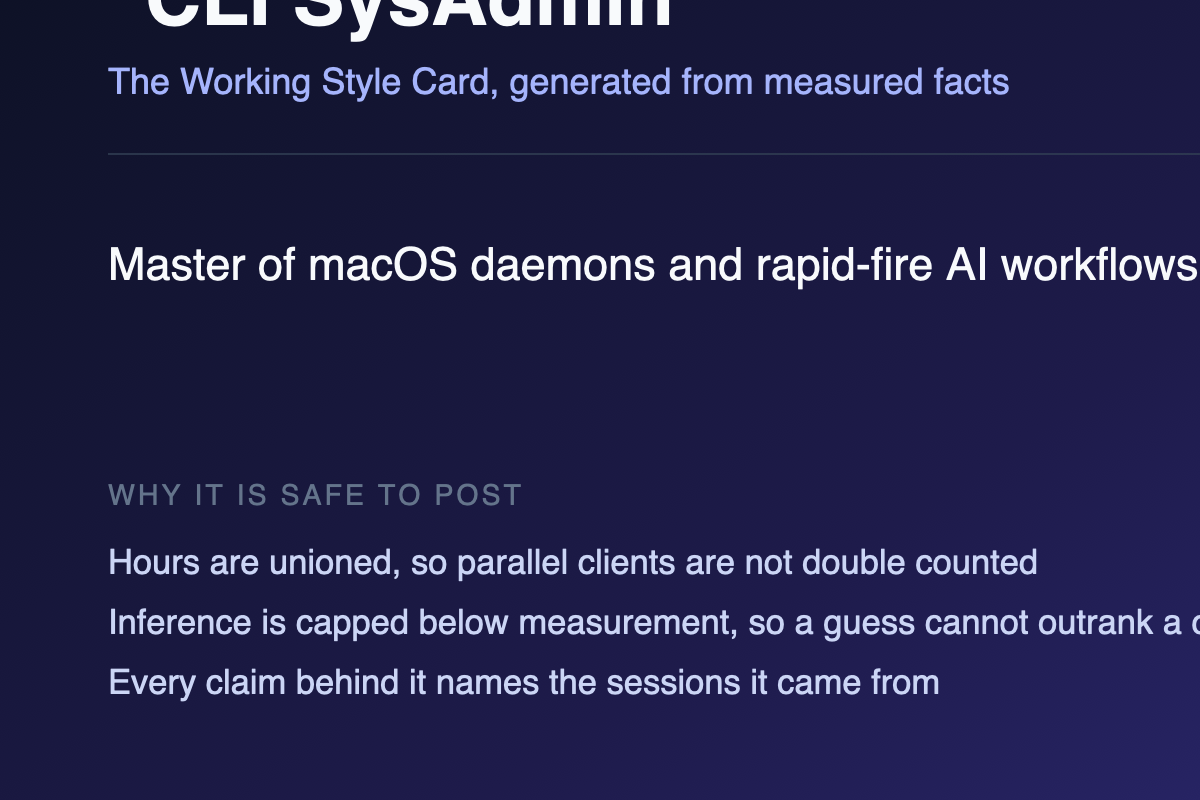
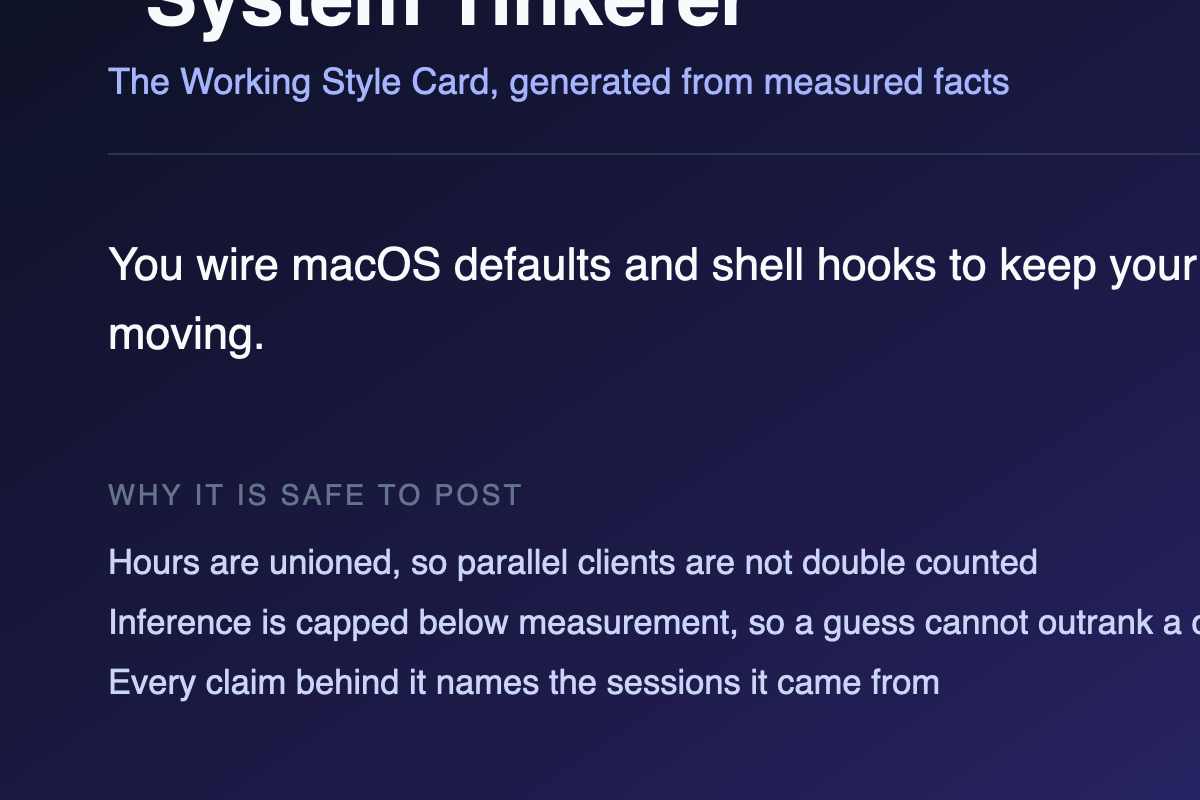
docs: shot-by-shot video script, timed against the live numbers

Changed region(s): [[0.0925, 0.2812, 1.0, 0.375], [0.1233, 0.0, 0.6167, 0.0625], [0.0925, 0.4062, 0.2158, 0.4688]]

diff --git a/docs/VIDEO-SCRIPT.md b/docs/VIDEO-SCRIPT.md
@@ -1,0 +1,270 @@
+# Demo video script
+
+**Target: 3:40. Hard limit 4:00.** Record in one take, screen plus voice, no
+edits. Judges reward a live demo over a polished one, and an unedited take is
+itself evidence that the thing works.
+
+Every number below was read from the live service. Re-run
+`scripts/demo_check.py` immediately before recording and update anything that
+moved.
+
+---
+
+## Before you press record
+
+**Windows, arranged in advance.** Nothing kills a demo like hunting for a tab.
+
+1. Terminal, large font, `cd ~/src/amnesia`, cleared
+2. Browser tab A: <https://amnesia-orkuraibfa-uc.a.run.app>
+3. Browser tab B: Cloud Run console, service `amnesia`
+4. Browser tab C: Firestore console, collection `amnesia_memory`
+5. Claude Code, open, ready to type
+6. Cursor, open, ready to type
+
+**Start the slow thing first.** Distillation takes about 90 seconds. Run it in
+the terminal at 2:00 and talk over it while it works, so nobody watches a
+spinner.
+
+**Kill the noise.** Notifications off, no personal repos with client names on
+screen, browser bookmarks bar hidden.
+
+**Say numbers out loud.** They are the strongest thing you have, and a judge
+skimming at 1.5x speed hears more than they read.
+
+---
+
+## 0:00 – 0:25 · The hook
+
+> "I have four AI coding agents. Every single morning, all four of them meet me
+> for the first time."
+
+**On screen:** Claude Code. Type:
+
+```
+what do you know about how I work?
+```
+
+Let the empty answer land. Do not talk over it.
+
+> "Claude Code knows nothing about what I did in Cursor yesterday. Codex has
+> never heard of the decision I spent two hours making last week. Every session,
+> I start over."
+
+**Why this opening:** it is not a description of a product, it is a description
+of the judge's own morning.
+
+---
+
+## 0:25 – 0:50 · The insight
+
+> "But the context isn't missing. Every one of these tools writes a full
+> transcript to my disk. Months of evidence about how I actually work, and
+> nobody reads it."
+
+**On screen:** terminal, one command:
+
+```bash
+ls ~/.claude/projects ~/.jcode/sessions | head
+```
+
+> "So I built Amnesia. It reads them."
+
+---
+
+## 0:50 – 1:30 · What it already knows
+
+**On screen:** switch to the Amnesia UI, tab A. Do not explain the
+architecture. Show the memory.
+
+> "This is running on Cloud Run. It has read 19 of my real sessions across 30
+> days, and measured 14.8 active hours of actual work."
+
+Scroll to the beliefs panel.
+
+> "These aren't things I told it. It worked them out. It knows I keep getting
+> blocked by expired auth sessions in CLI tools, and it's seen that in eight
+> separate sessions."
+
+Point at the evidence count.
+
+> "Every belief carries the sessions it came from. Which means I can argue with
+> it."
+
+Click **that's wrong** on any belief, type a correction, submit.
+
+> "And that correction outranks anything the model inferred. Permanently. The
+> next background pass can't quietly re-derive it."
+
+**Why this section matters:** provenance and correction are the two things most
+memory demos skip, and they are exactly what the Collaborative Partner track
+asks for.
+
+---
+
+## 1:30 – 2:10 · The partner, not the chatbot
+
+**On screen:** the chat box. Type slowly enough to read:
+
+```
+I need to add rate limiting to my API
+```
+
+While it thinks:
+
+> "A generic assistant asks you five questions here, because it's starting from
+> nothing."
+
+When the reply lands, point at the tool call line underneath it.
+
+> "It called recall first. Grounded itself. Then asked one question, about my
+> stack, because that's the one thing its memory genuinely couldn't answer."
+
+Then point at the second paragraph of the reply.
+
+> "And it volunteered that warning about my Node version drifting from .nvmrc.
+> I never told it that. It learned it from watching me hit that wall."
+
+**This is the money shot of the whole video.** Give it three full seconds of
+silence before moving on.
+
+---
+
+## 2:10 – 2:35 · It notices what you would not admit
+
+Type:
+
+```
+have I been stuck on anything lately?
+```
+
+> "The background pass looks for sessions where effort stopped turning into
+> progress."
+
+Read the result out loud.
+
+> "Ninety-two minutes. Nineteen messages. The same question asked four different
+> ways. I did not enjoy being told that, and it was right."
+
+**Start the distillation now, in the terminal, off-camera or in a corner:**
+
+```bash
+curl -X POST https://amnesia-orkuraibfa-uc.a.run.app/api/distill
+```
+
+---
+
+## 2:35 – 3:05 · It is an agent, not a web app
+
+**On screen:** Cloud Run console, tab B.
+
+> "This is the service on Cloud Run. It scales to zero between runs, so it costs
+> nothing when nobody's looking."
+
+**Switch to Cloud Scheduler** (or show the job list):
+
+> "And this is the part that makes it an agent rather than a page: Cloud
+> Scheduler wakes it every hour, whether or not I have anything open. It reads
+> new sessions, asks Gemini what they mean, and writes what it learned."
+
+**Switch to the terminal**, where the distill call has now returned:
+
+> "That's the pass running live. Nineteen sessions read, beliefs learned, no
+> errors."
+
+**Switch to Firestore, tab C.** Expand one document.
+
+> "Stored in Firestore with its evidence and its confidence, so it survives
+> restarts and follows me to any machine."
+
+---
+
+## 3:05 – 3:30 · The part that makes it infrastructure
+
+**On screen:** back to Claude Code. Same question as the opening:
+
+```
+what do you know about how I work?
+```
+
+Now it answers.
+
+> "Same memory, through MCP. This is Claude Code reading what the background
+> agent learned."
+
+**Switch to Cursor.** Ask something that needs the memory:
+
+```
+based on what you know about me, what should I watch out for in this project?
+```
+
+> "And Cursor knows it too. One memory, every client. That's the whole point:
+> your agents stop meeting you for the first time every morning."
+
+---
+
+## 3:30 – 3:50 · The card, and the close
+
+**On screen:** back to the Amnesia UI, click **Regenerate** on the card.
+
+> "It also makes this. A portrait of how I actually work."
+
+Read the nickname aloud.
+
+> "And every number on it is counted, not guessed. Hours are unioned, so two
+> agents running at once is one hour, not two. Anything the model inferred is
+> capped below anything measured. A guess never outranks a count."
+
+Pause.
+
+> "That's why I'm comfortable posting it."
+
+**Final line, straight to camera or over the UI:**
+
+> "Your agents don't have to meet you for the first time every morning."
+
+---
+
+## If something breaks on camera
+
+**Keep going and say what happened.** An unedited demo that survives a hiccup is
+more convincing than a suspiciously perfect one.
+
+| If | Say |
+| --- | --- |
+| Gemini returns 503 | "That's the primary model at capacity. It's falling back to flash-lite automatically, which is why this still works." |
+| A reply is slow | Fill with the architecture: unioned intervals, capped inference, evidence on every belief |
+| Distillation is slow | It is meant to be. Say "this normally runs on a schedule, nobody waits for it" |
+| The card is unremarkable | Regenerate once. Do not regenerate twice on camera |
+
+---
+
+## Numbers to verify before recording
+
+Run this and update anything that moved:
+
+```bash
+.venv/bin/python scripts/demo_check.py
+```
+
+| Claim in the script | Live value |
+| --- | --- |
+| Sessions read | 19 |
+| Active hours | 14.8 |
+| Days covered | 30 |
+| Beliefs learned | 14 |
+| Top belief evidence count | 8 sessions |
+| Stuck signal | 92 minutes, 19 asks, 4 near-identical |
+| Tests passing | 53 |
+
+---
+
+## What to cut if you run long
+
+In this order, and no further:
+
+1. The `ls ~/.claude/projects` shot at 0:25. Say the line instead.
+2. The Firestore document expansion. The Scheduler shot carries the point.
+3. The Cursor half of the MCP section. Claude Code alone still proves it.
+
+**Never cut:** the empty answer at 0:00, the `.nvmrc` moment at 1:30, or the
+Cloud Scheduler shot. Those three are the hook, the proof, and the requirement.
